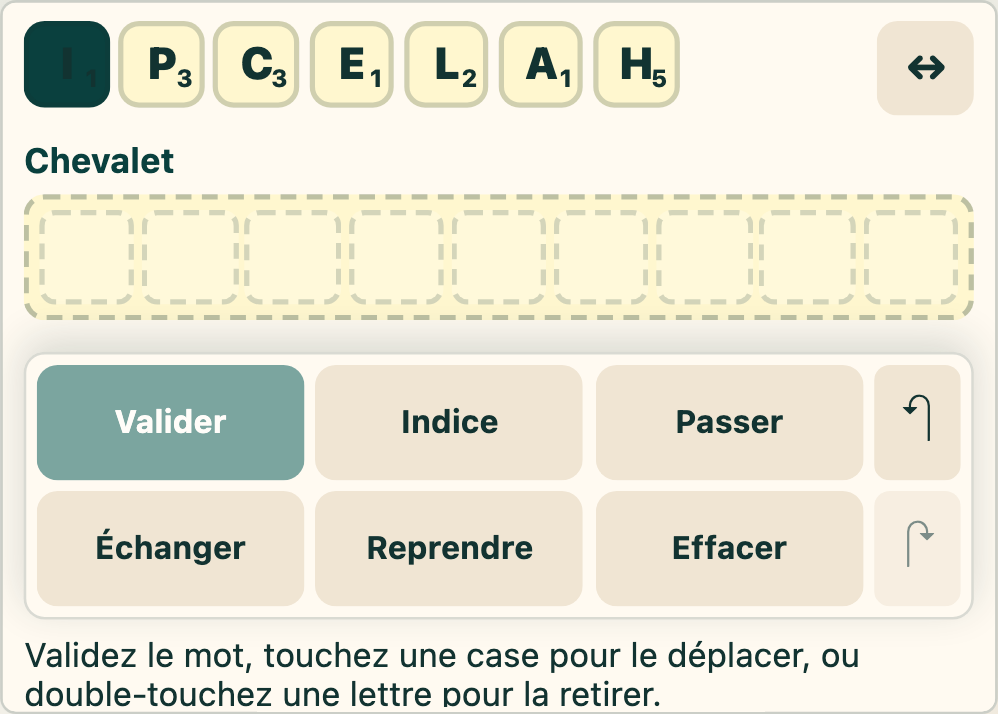
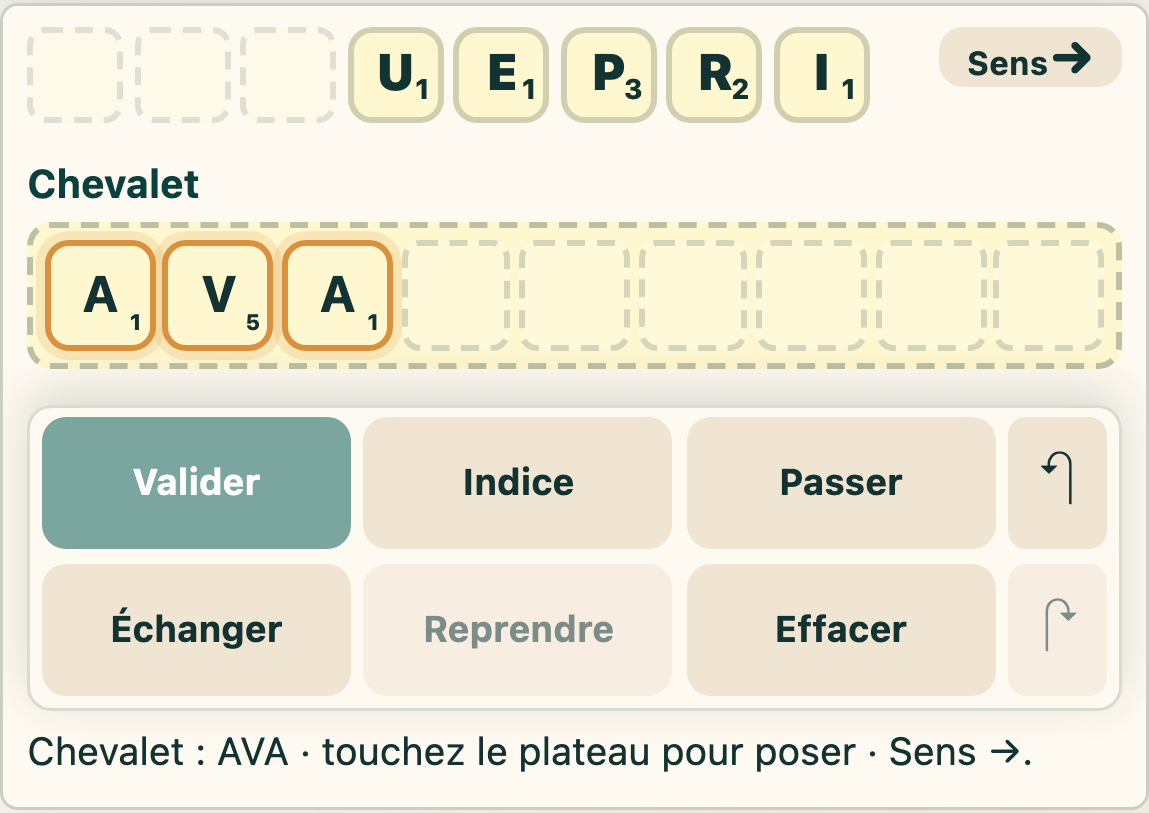
Update interaction documentation

diff --git a/src/components/game/RulesScreen.tsx b/src/components/game/RulesScreen.tsx
@@ -38,7 +38,7 @@ const INTERACTION_GUIDES = [
   {
     title: "Vue générale sur ordinateur",
     image: `${DOCS_IMAGE_BASE_URL}01-desktop-game-overview.png`,
-    alt: "Vue générale de la partie sur ordinateur avec le plateau et la zone de préparation.",
+    alt: "Vue générale de la partie sur ordinateur avec le plateau, le chevalet et les actions.",
     description:
       "Le plateau occupe la zone principale. La réserve, le chevalet, les actions et les messages restent visibles à droite."
   },
@@ -54,14 +54,14 @@ const INTERACTION_GUIDES = [
     image: `${DOCS_IMAGE_BASE_URL}03-board-letter-placed-from-rack.png`,
     alt: "Lettre posée sur la case sélectionnée depuis les lettres disponibles.",
     description:
-      "Après avoir choisi une case, touchez une lettre disponible. Elle est posée immédiatement sur le plateau."
+      "Après avoir choisi une case, touchez une lettre disponible. Elle est posée immédiatement et sa place reste vide dans la réserve."
   },
   {
     title: "Déplacer une suite posée",
     image: `${DOCS_IMAGE_BASE_URL}06-board-letter-moved-to-selected-cell.png`,
     alt: "Suite de lettres déplacée sur le plateau pendant le tour.",
     description:
-      "Touchez une case vide ou une lettre du mot posé : le début du mot est déplacé à cet endroit."
+      "Touchez une case vide ou une lettre du mot posé : le début du mot est déplacé à cet endroit. Une lettre peut aussi être insérée dans cette suite."
   },
   {
     title: "Préparer un mot dans le chevalet",
@@ -134,6 +134,7 @@ export function RulesScreen({ hasGame, onBack, onLexiconRequest }: RulesScreenPr
             <ul>
               <li>Posez les lettres une par une ou préparez un mot dans le chevalet.</li>
               <li>Touchez une case vide du plateau pour choisir la destination d'une lettre.</li>
+              <li>Les lettres disponibles gardent leur emplacement : une lettre utilisée laisse une case vide.</li>
               <li>Touchez une case compatible pour poser un mot préparé de plusieurs lettres.</li>
               <li>Validez seulement quand le mot est correct.</li>
               <li>Vous pouvez retirer, reprendre, effacer ou annuler votre coup avant validation.</li>
@@ -145,8 +146,8 @@ export function RulesScreen({ hasGame, onBack, onLexiconRequest }: RulesScreenPr
             <h2>Échange</h2>
             <ul>
               <li>Appuyez sur Échanger pour choisir les lettres à remplacer.</li>
-              <li>Si des lettres sont sur le plateau ou dans le chevalet, elles reviennent d'abord dans Vos lettres.</li>
-              <li>Touchez les lettres voulues dans Vos lettres, puis appuyez à nouveau sur Échanger.</li>
+              <li>Si des lettres sont sur le plateau ou dans le chevalet, elles reviennent d'abord dans la réserve.</li>
+              <li>Touchez les lettres voulues dans la réserve, puis appuyez à nouveau sur Échanger.</li>
               <li>Les lettres choisies retournent dans la pioche et vous recevez le même nombre de lettres.</li>
               <li>Pendant la sélection, Indice et Passer restent visibles mais ne sont pas cliquables.</li>
               <li>Annuler permet de quitter la sélection avant de confirmer l'échange.</li>
@@ -202,6 +203,10 @@ export function RulesScreen({ hasGame, onBack, onLexiconRequest }: RulesScreenPr
               cette case. Le bouton Sens → / ↓ choisit la direction de la lettre suivante.
             </p>
             <p role="listitem">
+              <strong>Réserve.</strong> Les emplacements restent fixes : une lettre utilisée laisse
+              une case vide, les autres lettres ne se resserrent pas.
+            </p>
+            <p role="listitem">
               <strong>Bouton Sens → / ↓.</strong> Il indique la direction actuelle. Avant une suite,
               il choisit le sens de pose ; avec une suite posée, il change sa direction.
             </p>
@@ -211,6 +216,10 @@ export function RulesScreen({ hasGame, onBack, onLexiconRequest }: RulesScreenPr
             <p role="listitem">
               <strong>Mot posé ce tour puis lettre du même mot.</strong> Le début du mot est déplacé
               sur cette lettre.
+            </p>
+            <p role="listitem">
+              <strong>Lettre glissée sur le mot actif.</strong> Elle s'insère à l'endroit indiqué par
+              le repère d'insertion, comme dans le chevalet.
             </p>
             <p role="listitem">
               <strong>Lettre déjà posée.</strong> Un double-clic ou double toucher retire seulement
@@ -231,7 +240,7 @@ export function RulesScreen({ hasGame, onBack, onLexiconRequest }: RulesScreenPr
             <p role="listitem">
               <strong>Échanger.</strong> Le bouton active une sélection de lettres disponibles, puis
               remplace les lettres choisies et passe le tour. Les lettres du coup en cours reviennent
-              d'abord dans Vos lettres.
+              d'abord dans la réserve.
             </p>
             <p role="listitem">
               <strong>Lettre déjà validée.</strong> Elle peut servir de repère dans un mot préparé si

diff --git a/docs/interactions.md b/docs/interactions.md
@@ -6,7 +6,7 @@ Les captures ont été produites depuis l'application locale avec une partie dé
 
 ## Vue générale
 
-Sur ordinateur, le plateau occupe la zone principale et la préparation du coup reste visible à droite.
+Sur ordinateur, le plateau occupe la zone principale et le chevalet avec les actions reste visible à droite.
 
 ![Vue générale ordinateur](assets/interactions/01-desktop-game-overview.png)
 
@@ -34,6 +34,8 @@ Après le choix d'une lettre, elle apparaît sur le plateau. Le coup peut encore
 
 ![Lettre posée depuis la réserve](assets/interactions/03-board-letter-placed-from-rack.png)
 
+Les emplacements de la réserve restent stables : quand une lettre est utilisée, sa case devient vide au lieu de faire glisser les autres lettres.
+
 ## Déplacer une suite déjà posée
 
 Une suite de lettres posée pendant le tour peut être déplacée sans utiliser le glisser-déposer.
@@ -51,13 +53,15 @@ Deux lettres sont ici déjà posées pendant le tour.
 
 ![Deux lettres posées avant déplacement](assets/interactions/04-two-board-letters-before-move.png)
 
-La nouvelle case de destination est sélectionnée.
+La suite est déplacée dès que la nouvelle case est touchée. Les autres lettres du coup suivent le début du mot.
 
-![Destination sélectionnée avant déplacement](assets/interactions/05-board-destination-selected-before-moving-letter.png)
+![Suite déplacée une première fois](assets/interactions/05-board-destination-selected-before-moving-letter.png)
 
-La suite est déplacée vers cette destination. Les autres lettres du coup suivent le début du mot.
+Elle peut ensuite être déplacée à nouveau tant que le coup n'est pas validé.
 
-![Lettre déplacée vers la case sélectionnée](assets/interactions/06-board-letter-moved-to-selected-cell.png)
+![Suite déplacée vers une autre case](assets/interactions/06-board-letter-moved-to-selected-cell.png)
+
+Une lettre peut aussi être insérée dans la suite active sur la grille. En glissant une lettre sur une lettre du mot en cours, le même repère d'insertion que dans le chevalet apparaît et la suite se décale si la grille le permet.
 
 Pour retirer une seule lettre posée pendant le tour, double-cliquer ou double-toucher cette lettre.
 
@@ -65,7 +69,7 @@ Pour retirer une seule lettre posée pendant le tour, double-cliquer ou double-t
 
 Le chevalet permet de préparer un mot avant de le poser en une seule action sur le plateau. Il reste aussi possible de poser les lettres une par une.
 
-![Zone de préparation ordinateur](assets/interactions/07-preparation-zone-desktop.png)
+![Chevalet sur ordinateur](assets/interactions/07-preparation-zone-desktop.png)
 
 Un mot peut être préparé depuis les lettres disponibles.
 
@@ -82,15 +86,15 @@ Le chevalet accepte deux modes complémentaires :
 - glisser-déposer une lettre vers un autre emplacement ;
 - sélectionner un emplacement vide, puis toucher une lettre du chevalet pour la déplacer vers cet emplacement.
 
-Ces deux modes permettent d'organiser le mot sans dépendre d'un geste précis.
+Ces deux modes permettent d'organiser le mot sans dépendre d'un geste précis. Le repère d'insertion utilisé dans le chevalet est aussi utilisé sur la grille lorsque l'on insère une lettre dans la suite posée pendant le tour.
 
 ## Échanger des lettres
 
 Le bouton `Échanger` permet de remplacer des lettres au lieu de poser un mot.
 
 1. appuyer sur `Échanger` ;
-2. si des lettres sont déjà posées pendant le tour ou préparées dans le chevalet, elles reviennent dans `Vos lettres` ;
-3. toucher les lettres à remplacer dans `Vos lettres` ;
+2. si des lettres sont déjà posées pendant le tour ou préparées dans le chevalet, elles reviennent dans la réserve ;
+3. toucher les lettres à remplacer dans la réserve ;
 4. appuyer à nouveau sur `Échanger`.
 
 Les lettres choisies retournent dans la pioche, le joueur reçoit le même nombre de nouvelles lettres et le tour est passé. Pendant la sélection, `Indice` et `Passer` restent visibles mais ne sont pas cliquables. Le bouton `Annuler` permet de quitter le mode échange avant confirmation.
@@ -110,9 +114,9 @@ Sur smartphone, les actions principales sont regroupées dans une barre rapide :
 
 ![Actions rapides smartphone](assets/interactions/12-mobile-quick-actions.png)
 
-La zone de préparation mobile conserve les mêmes fonctions que sur ordinateur, avec des cibles plus adaptées au toucher.
+Le chevalet mobile conserve les mêmes fonctions que sur ordinateur, avec des cibles plus adaptées au toucher.
 
-![Zone de préparation smartphone](assets/interactions/13-mobile-preparation-zone.png)
+![Chevalet sur smartphone](assets/interactions/13-mobile-preparation-zone.png)
 
 ## Synthèse des gestes
 
@@ -120,15 +124,17 @@ La zone de préparation mobile conserve les mêmes fonctions que sur ordinateur,
 | --- | --- | --- |
 | Case vide du plateau | Cliquer ou toucher | La case devient la destination sélectionnée. |
 | Case sélectionnée + lettre disponible | Cliquer ou toucher la lettre | La lettre est posée sur la case sélectionnée. |
+| Réserve après une lettre utilisée | Emplacement vide | Les autres lettres gardent leur position d'origine. |
 | Mot déjà posé ce tour + case vide | Cliquer ou toucher la case | Le début du mot est déplacé sur cette case. |
 | Mot déjà posé ce tour + lettre du même mot | Cliquer ou toucher la lettre | Le début du mot est déplacé sur cette lettre. |
+| Lettre glissée sur une lettre du mot actif | Glisser-déposer | La lettre est insérée à cet endroit si la suite tient sur la grille. |
 | Lettre déjà posée ce tour | Double-cliquer ou double-toucher | Seule cette lettre est retirée du plateau. |
 | Lettre du chevalet | Glisser vers le plateau | La lettre est posée sur la case visée. |
 | Lettre déjà posée sur le plateau | Glisser vers une case vide | La lettre est déplacée vers cette case. |
 | Emplacement vide du chevalet | Cliquer ou toucher | L'emplacement devient la destination sélectionnée. |
 | Emplacement du chevalet sélectionné + lettre | Cliquer ou toucher la lettre | La lettre se déplace vers l'emplacement sélectionné. |
-| Bouton Échanger | Cliquer ou toucher | Les lettres du coup en cours reviennent dans Vos lettres, puis la sélection d'échange s'active. |
-| Mode échange + lettres dans Vos lettres | Cliquer ou toucher les lettres | Les lettres sont sélectionnées ou retirées de la sélection d'échange. |
+| Bouton Échanger | Cliquer ou toucher | Les lettres du coup en cours reviennent dans la réserve, puis la sélection d'échange s'active. |
+| Mode échange + lettres disponibles | Cliquer ou toucher les lettres | Les lettres sont sélectionnées ou retirées de la sélection d'échange. |
 | Mode échange + bouton Échanger | Cliquer ou toucher | Les lettres choisies sont remplacées et le tour est passé. |
 | Mode échange + bouton Annuler | Cliquer ou toucher | La sélection d'échange est abandonnée sans remplacer de lettre. |
 
@@ -137,6 +143,9 @@ La zone de préparation mobile conserve les mêmes fonctions que sur ordinateur,
 - Le glisser-déposer ne doit jamais être la seule méthode disponible.
 - Un clic sur une lettre du mot posé doit déplacer la suite, pas retirer tout le mot.
 - Un double-clic sur une lettre posée ne doit retirer que cette lettre.
+- Une lettre ne doit jamais apparaître simultanément dans deux zones.
+- La réserve doit conserver ses emplacements pour éviter les déplacements visuels brusques.
+- Le repère d'insertion doit rester cohérent entre chevalet et grille.
 - La sélection d'une destination doit être visible.
 - Le mode échange doit toujours annoncer qu'il passe le tour et qu'il peut être annulé avant confirmation.
 - Les actions mobiles ne doivent pas créer de doublons accessibles avec les actions ordinateur.

diff --git a/docs/game-rules.md b/docs/game-rules.md
@@ -30,7 +30,7 @@ affiche un onglet par taille de grille pour consulter la distribution réellemen
 
 ## Échange de lettres
 
-Le joueur peut remplacer une ou plusieurs lettres disponibles au lieu de poser un mot. Le bouton `Échanger` remet d'abord les lettres posées pendant le tour et les lettres préparées dans `Vos lettres`, puis active une sélection dans `Vos lettres`. Le joueur touche les lettres à remplacer, puis appuie à nouveau sur `Échanger`.
+Le joueur peut remplacer une ou plusieurs lettres disponibles au lieu de poser un mot. Le bouton `Échanger` remet d'abord les lettres posées pendant le tour et les lettres préparées dans la réserve, puis active une sélection parmi les lettres disponibles. Le joueur touche les lettres à remplacer, puis appuie à nouveau sur `Échanger`.
 
 Pendant cette sélection, les boutons `Indice` et `Passer` restent visibles mais ne sont pas cliquables. Le bouton `Annuler` permet de quitter le mode échange sans remplacer de lettre.
 
@@ -40,11 +40,13 @@ Après un échange, le jeu vérifie la fin de partie comme après un tour passé
 
 ## Préparation et placement
 
-Le joueur peut poser une lettre en touchant d'abord une case vide du plateau, puis une lettre disponible. Le bouton `Sens → / ↓` indique la direction actuelle : vers la droite ou vers le bas. Avant qu'une suite soit formée, il choisit la direction de la prochaine lettre ; quand une suite existe, il permet de changer sa direction si la grille le permet.
+Le joueur peut poser une lettre en touchant d'abord une case vide du plateau, puis une lettre disponible. Les lettres disponibles gardent leurs emplacements d'origine : lorsqu'une lettre est utilisée, sa case dans la réserve devient vide au lieu de déplacer les autres lettres. Le bouton `Sens → / ↓` indique la direction actuelle : vers la droite ou vers le bas. Avant qu'une suite soit formée, il choisit la direction de la prochaine lettre ; quand une suite existe, il permet de changer sa direction si la grille le permet.
 
 Si une suite de lettres est déjà posée pendant le tour, toucher une case vide déplace le début de cette suite sur la case choisie.
 
 Le début du mot reste toujours la référence du déplacement. Toucher une lettre déjà posée pendant le tour déplace le début du mot sur cette lettre : les lettres suivantes gardent leur ordre et avancent dans la direction actuelle. Pour retirer une seule lettre posée pendant le tour, il faut double-cliquer ou double-toucher cette lettre.
+
+Une lettre disponible, une lettre du chevalet ou une lettre déjà posée pendant le tour peut aussi être glissée sur une lettre de la suite active pour être insérée à cet endroit. Le même repère d'insertion est utilisé sur la grille et dans le chevalet. L'insertion est refusée si la suite dépasserait du plateau ou entrerait en conflit avec une lettre déjà validée.
 
 Le joueur peut aussi préparer un mot en touchant plusieurs lettres du chevalet, puis toucher une case compatible sur le plateau. Le jeu cherche une pose horizontale ou verticale valide à partir de cette case. Le mot entier est posé en une seule action si les cases sont compatibles et si le coup respecte les règles de validation.
 
